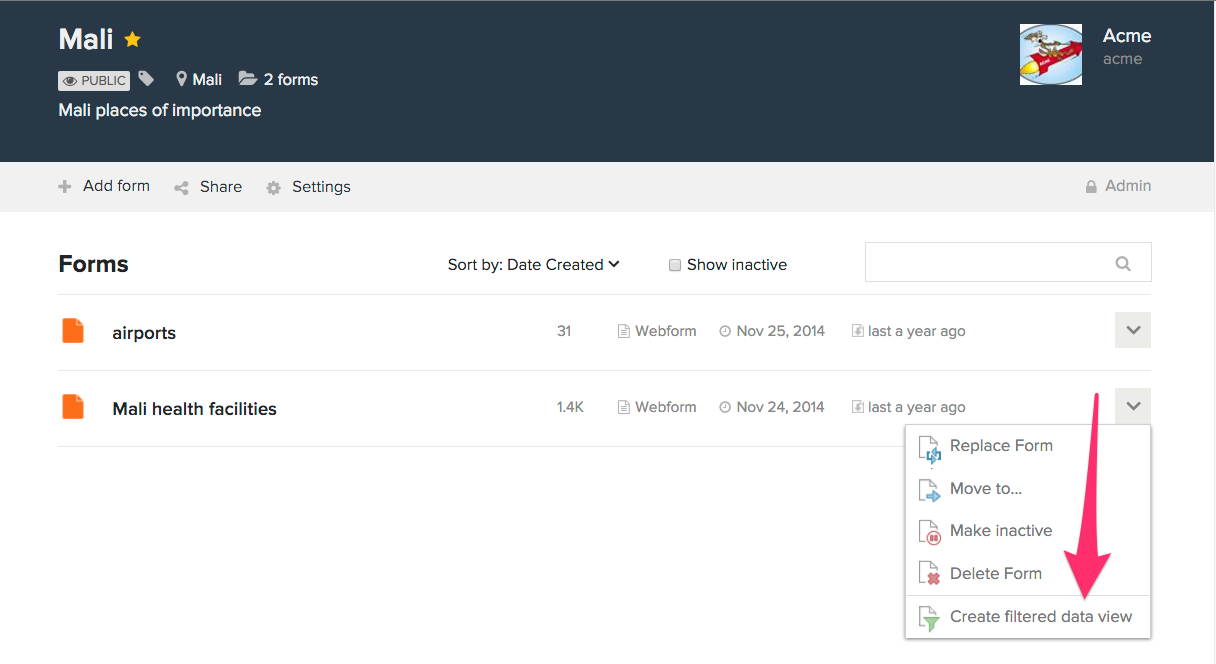
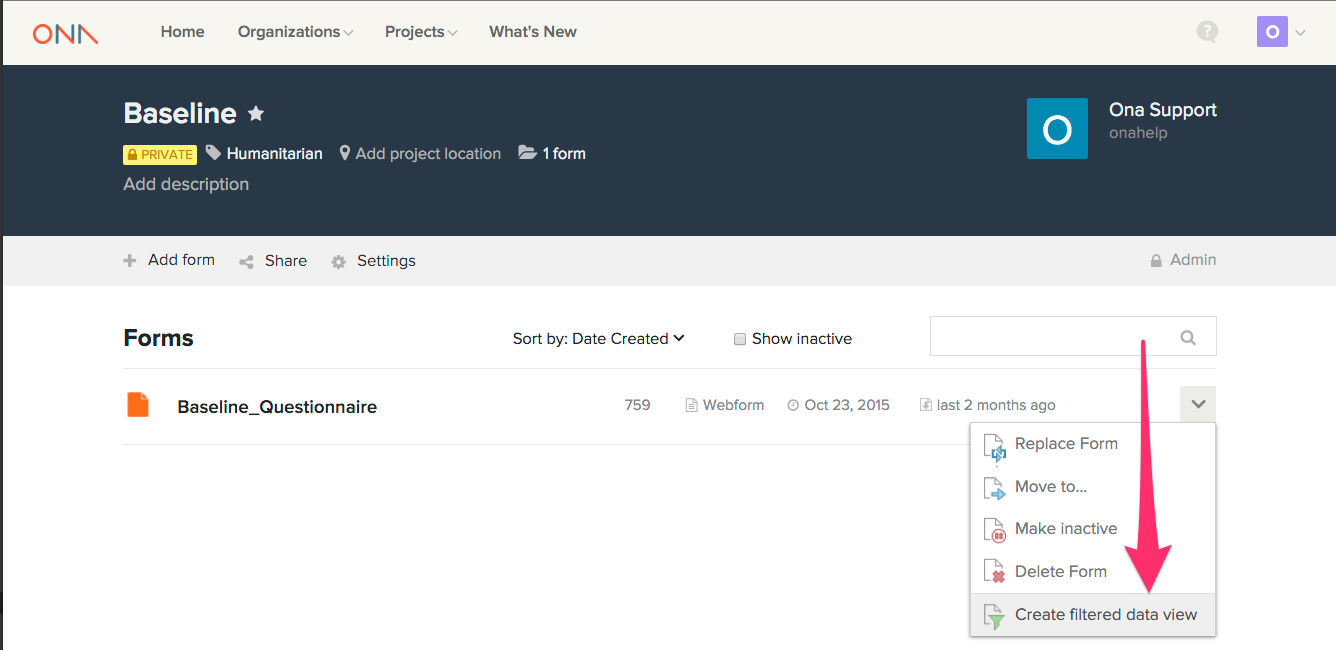
SM: Added screen shots, closes #118

diff --git a/faqs/_posts/2015-10-01-filtered-data-view.md b/faqs/_posts/2015-10-01-filtered-data-view.md
@@ -17,19 +17,42 @@ Access to filtered data views work the same way as datasets projects. You can sa
 Filtered data views can be created from a form (with submissions) using the **Create filtered data view** option in the form’s dropdown menu. Below are the steps to follow to create Filtered Data Views:
 
 1. Locate the dataset you would like to create a filtered data view for on your Project page. Click on the dropdown menu next to the form and select **Create filtered data view.**
+<br><br>
+![](/content/screenshots/faq/faq-create-filtered-data-view.png)
+<br><br>
 2. In the create filtered data view wizard, select the fields you want to show by ticking the checkboxes to the left of the fields. Click the checkbox above your fields to toggle **All fields.** Leave the checkbox unchecked in fields that you want to hide in your filtered data view. 
+<br><br>
+![](/content/screenshots/faq/faq-filtered-all-fields.png)
+<br>
 3. When you are done selecting which fields you want to show, click the **Next** button at the bottom.
-4. In the next step, you can **Add filters** to show records that match specific answers to fields. For example, if you have a field for “Sex”, you can add a filter for “Female” so that only records that answered that field with “Female” show up in the filtered data view and records that have the answer “Male” are hidden. There is more information on this step below in the [How filters work](#filters) section. Click the **Next** button when you are done adding filters.
+<br><br>
+![](/content/screenshots/faq/faq-filtered-data-view-next.png)
+4. In the next step, you can **Add filters** to show records that match specific answers to fields. For example, if you have a field for “Gender of household Head”, you can add a filter for “Female” (in our dataset , the option "Female" is represented by the variable name "2") so that only records that answered that field with “Female” show up in the filtered data view and records that have the answer “Male” are hidden. There is more information on this step below in the [How filters work](#filters) section. Click the **Next** button when you are done adding filters.
+<br><br>
+![](/content/screenshots/faq/faq-add-filters.png)
+
 5. To **Confirm and Save** your created filtered data view, enter the **Name of linked data view** in the textbox.
+<br><br>
+![](/content/screenshots/faq/faq-linked-dataview-name.png)
+
 6. From the Project dropdown menu, select the project you’d like the filtered data view to be placed in. If you’d like filtered data view to be placed in a different project than the original parent dataset select the **New Project** option.
+<br><br>
+![](/content/screenshots/faq/faq-filtered-dataview-project.png)
+
 7. Once you’re done click on the **Save** button.
+<br><br>
+![](/content/screenshots/faq/faq-filtered-dataview-save.png)
+
 8. You should see a label with the text **filtered data view** next to your created filtered data view. The created filtered data view can be accessed in the Project it is in.
+<br><br>
+![](/content/screenshots/faq/faq-filtered-data-view.png)
 
+> 
+**Note:**<br/> 
 >
-**Note:** <br/> A filtered data view inherits the same permission settings as the project it is in. The permissions of the parent dataset does not impact the permissions of the child filtered data view.
-
->
-**Note:** <br/> If you choose to hide fields in a filtered data view, editing records in that filtered data view will be disabled for all users. Read more about why in the [When editing becomes disabled...](#disabled) section below. 
+* A filtered data view inherits the same permission settings as the project it is in. The permissions of the parent dataset does not impact the permissions of the child filtered data view.
+<br><br>
+* If you choose to hide fields in a filtered data view, editing records in that filtered data view will be disabled for all users. Read more about why in the [When editing becomes disabled...](#disabled) section below. 
 
 
 ###How filters work<a name="filters"></a>
@@ -38,9 +61,18 @@ Filters in filtered data views allow you to show only records with specific answ
 
 After selecting the fields you want to show (step 3 above), you’ll navigate to the **Add Filters** page. To add a filter follow the steps below:
 
-1. Select a specific field from your dataset on the **Select Field** drop-down menu, e.g.Region
+1. Select a specific field from your dataset on the **Select Field** drop-down menu, e.g.Informal settlement
+<br><br>
+![](/content/screenshots/faq/faq-select-filtered_field.png)
 2. From the constraint list, select a **Constraint.** The constraint selected varies from the type of question, for instance if it’s a text field then a constraint like Equals will be selected. For integer fields a constraints such as Greater than or Less than.
+<br><br>
+![](/content/screenshots/faq/faq-filtered-dataview-constraint.png)
 3. Enter the **Filter value** in the text box and click the **Next** button to create the filtered data view;
+<br><br>
+![](/content/screenshots/faq/faq-filtered-dataview-constraint.png)
+3. Enter the **Filter value** in the text box and click the **Next** button;
+<br><br>
+![](/content/screenshots/faq/faq-filtered-dataview-value.png)
 
 >
 **Note:** <br/> You can add as more filters by clicking on the **Add Filter** button.
@@ -49,7 +81,7 @@ After selecting the fields you want to show (step 3 above), you’ll navigate to
 
 Records in a filtered data view are not actually new, duplicate records &mdash; they are the same records of the parent dataset with hidden information. For adding and editing records, this has a few implications:
 
-- For new records: records cannot be added to the filtered data view, they must be added to the parent dataset. Otherwise, there is a chance that the new submission won't match the filters of the filtered data view. A user must be have **Can Submit** or greater permissions on the parent dataset to be able to do add new records to the parent dataset.
+- For new records: records cannot be added to the filtered data view, they must be added to the parent dataset. Otherwise, there is a chance that the new submission won't match the filters of the filtered data view. A user must be have **Can Submit** or greater [permissions](https://help.ona.io/guides/projects/#permission-levels) on the parent dataset to be able to do add new records to the parent dataset.
 
 - For editing records: when those records are edited from the filtered data view, the data in the parent dataset is changed. Therefore, all of the "child" filtered data views of the parent dataset will reflect the changes.
 
